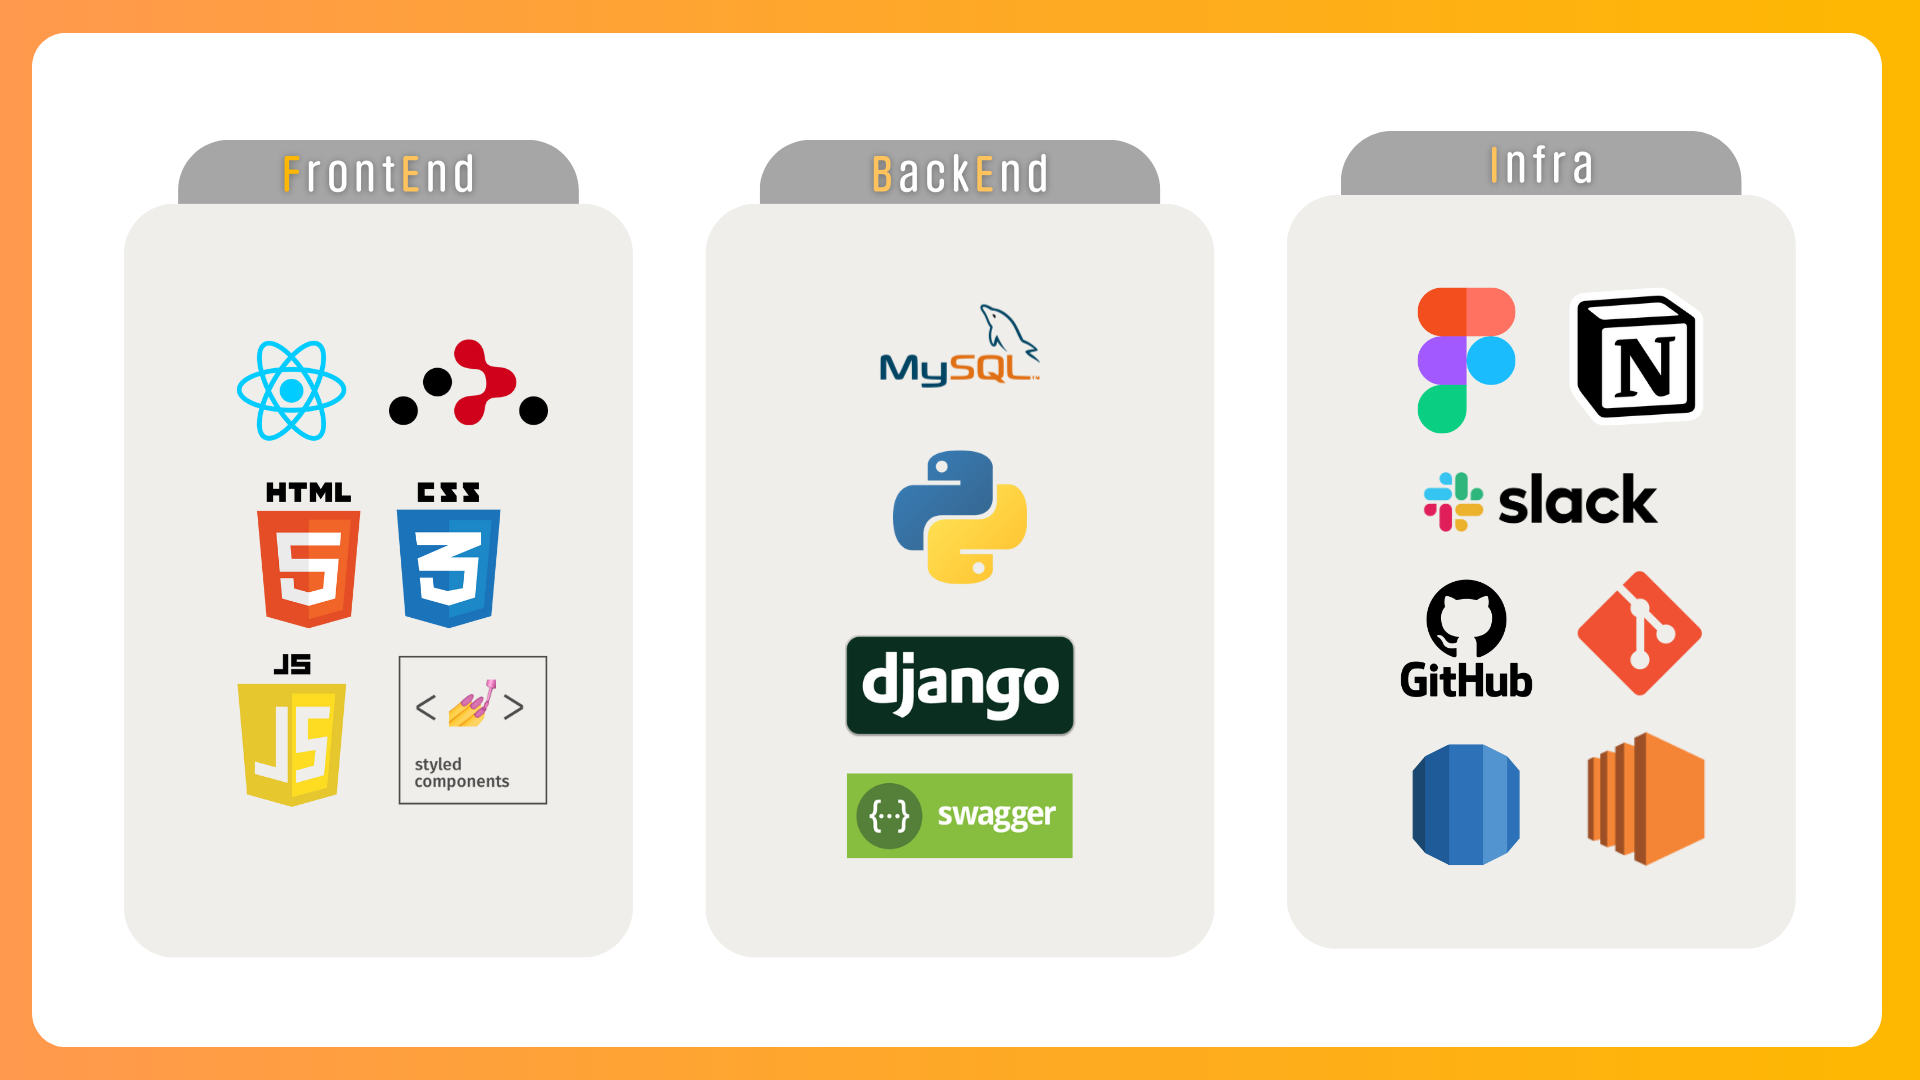
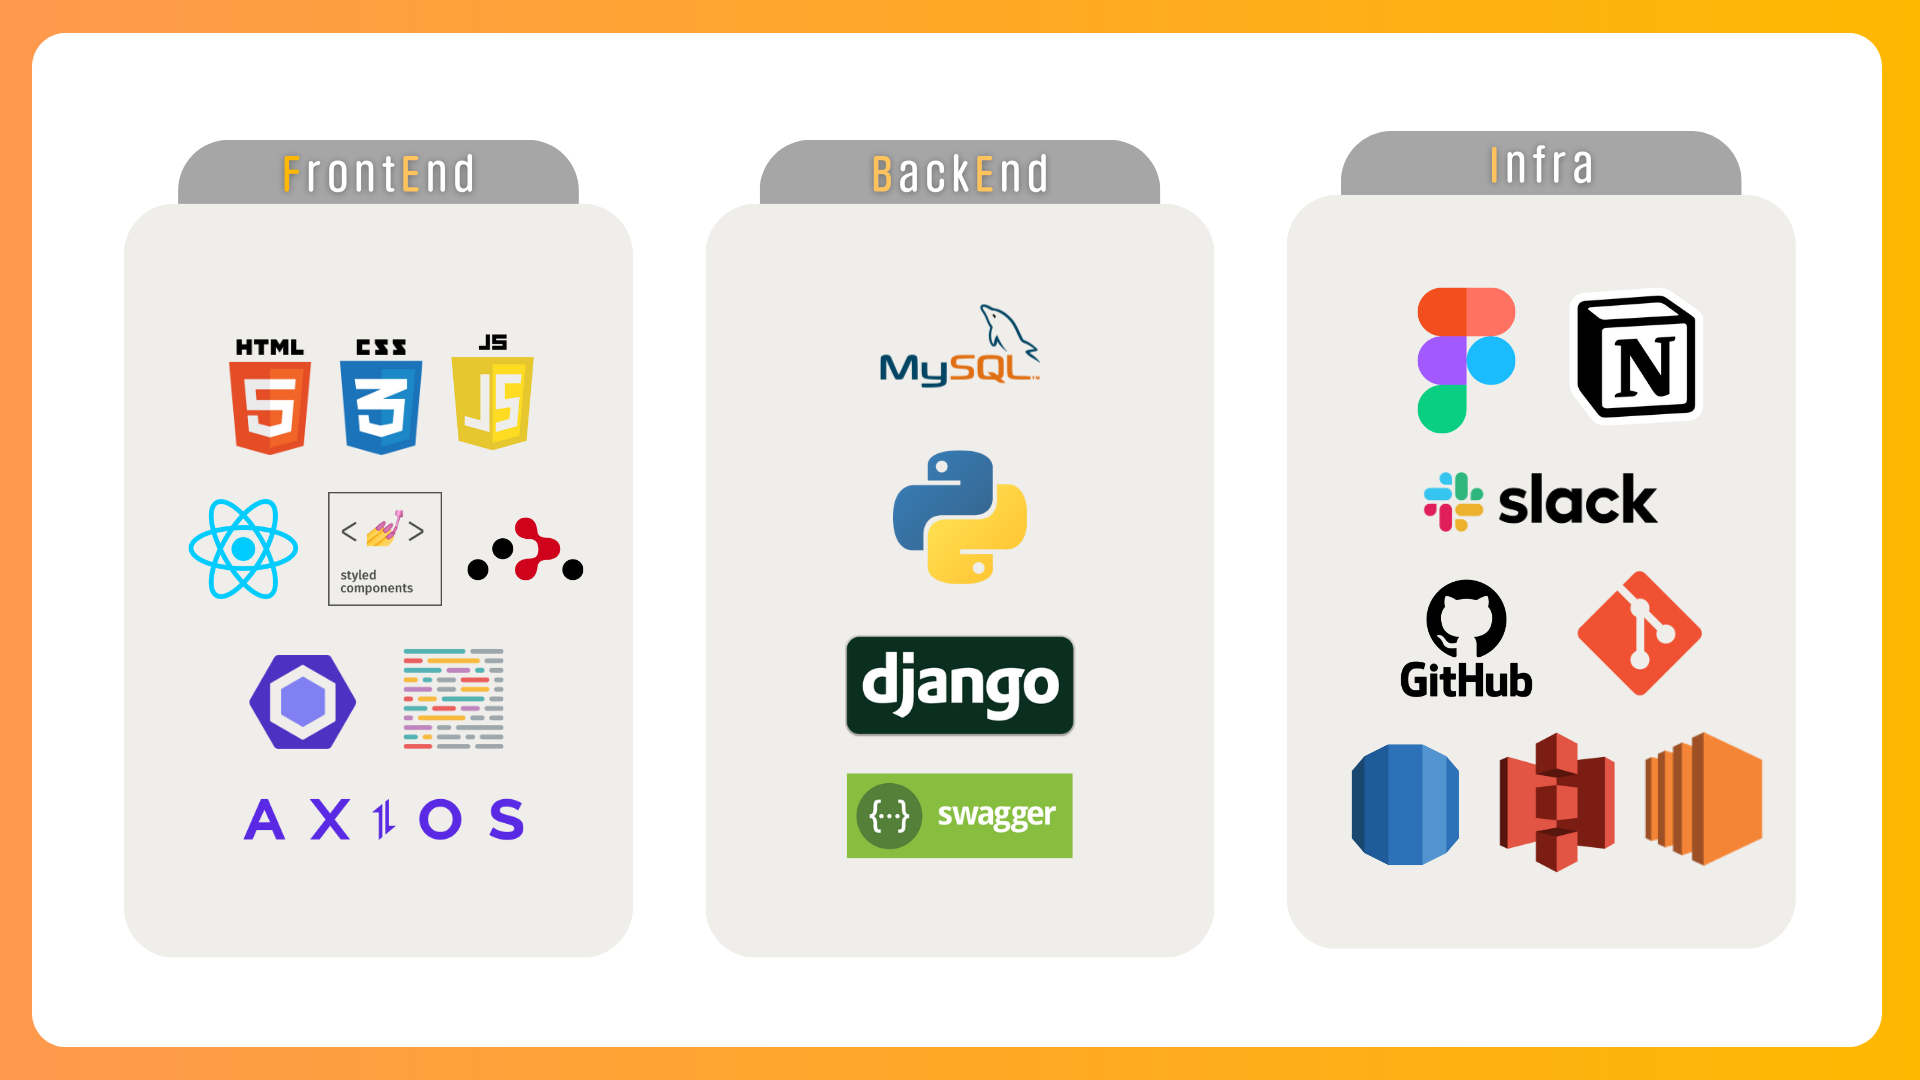
docs: Update readme.md

Changed region(s): [[0.0938, 0.3056, 0.3125, 0.7944], [0.6875, 0.6722, 0.9375, 0.825]]

diff --git a/readme.md b/readme.md
@@ -9,11 +9,13 @@
 더 건강하개, 더 재미있개! 
 
 ### [🛠멍 시그널 배포 링크 바로가기](https://meong-signal.o-r.kr)
+
 ### [🎬멍 시그널 홍보 영상 바로가기](https://youtu.be/4Iq38YWdS-4?si=wcxGkzFkustVEiyr)
 
 <br>
 
 ### 📂 Content
+
 - [🔎 기술 스택](#기술-스택)
 - [🔎 서비스 고안 배경](#서비스-고안-배경)
 - [🔎 서비스 매커니즘](#서비스-매커니즘)
@@ -29,31 +31,54 @@
 <br>
 
 ## 🛠기술 스택
+
 ![기술 스택](meong_signal/static/readme/3.png)
 <br>
-> 백엔드 개발 : django
->
-> 데이터베이스 관리 : AWS RDS(mysql)
-> 
-> 서버 배포 : AWS EC2
-> 
-> 협업 툴 : notion, slack, git, github, Figma
 
-(프론트는 몰라서 아직 못썼어요ㅜ)
+> 프론트엔드 (FrontEnd)
+
+- React
+- HTML5
+- CSS
+- JavaScript
+- 스타일링: Styled-Components
+- 포매터: ESLint + Prettier
+- 라우팅: React Router
+- HTTP 클라이언트: Axios
+
+> 백엔드 (BackEnd)
+
+- Django
+
+> 데이터베이스 관리 (Database Management)
+
+- AWS RDS (MySQL)
+
+> 서버 배포 (Server Deployment)
+
+- AWS EC2
+
+> 협업 툴 (Collaboration Tools)
+
+- Notion
+- Slack
+- Git
+- GitHub
+- Figma
 
 <br>
 
 ## 🌟서비스 고안 배경
 
-대개 견주들은 바쁘거나, 일정이 존재하여 강아지를 산책시킬 시간을 내기 어려울 때가 종종 있습니다. 
-이에 따라 일정의 보수를 받고 강아지를 대신 산책시켜주는 '도그워커'가 등장하기도 하였습니다. 
+대개 견주들은 바쁘거나, 일정이 존재하여 강아지를 산책시킬 시간을 내기 어려울 때가 종종 있습니다.
+이에 따라 일정의 보수를 받고 강아지를 대신 산책시켜주는 '도그워커'가 등장하기도 하였습니다.
 
-그러나 보수가 목적이 아닌 단순 강아지와 함께 산책을 하고자 하는 일반인도 존재하며, 이러한 무보수 도그워커까지 폭넓게 포함하여 
-견주와 도그워커를 매칭해주는 서비스가 있다면 편리할 것입니다. 
+그러나 보수가 목적이 아닌 단순 강아지와 함께 산책을 하고자 하는 일반인도 존재하며, 이러한 무보수 도그워커까지 폭넓게 포함하여
+견주와 도그워커를 매칭해주는 서비스가 있다면 편리할 것입니다.
 
-산책자는 혼자 하는 산책보다 더 즐거운 시간을 보낼 수 있고, 귀여운 강아지와의 교감을 통해 더욱 특별한 추억을 만들 수 있습니다. 견주들은 강아지가 충분히 운동하고 행복하게 산책할 수 있어서 안심할 수 있죠! 
+산책자는 혼자 하는 산책보다 더 즐거운 시간을 보낼 수 있고, 귀여운 강아지와의 교감을 통해 더욱 특별한 추억을 만들 수 있습니다. 견주들은 강아지가 충분히 운동하고 행복하게 산책할 수 있어서 안심할 수 있죠!
 
-또한, 단순 산책 뿐만 아니라 앱 내 다양한 재미요소와 미션을 걸어 산책의 즐거움을 사용자에게 체험하게함으로써, 다각적인 방면에서의 건강을 증진시키는 것을 기대합니다. 
+또한, 단순 산책 뿐만 아니라 앱 내 다양한 재미요소와 미션을 걸어 산책의 즐거움을 사용자에게 체험하게함으로써, 다각적인 방면에서의 건강을 증진시키는 것을 기대합니다.
 <br>
 
 ## 🔗서비스 매커니즘
@@ -62,47 +87,50 @@
 <br>
 
 ## 🔔주요 기능
+
 ![주요기능](meong_signal/static/readme/6.png)
 <br><br>
 **사용자 위치 기반 지도**
+
 - 도그워커의 현재 위치를 기반으로 주변의 강아지 정보를 불러옵니다.
 - 견주의 집 위치를 기반으로 강아지 정보를 생성합니다.
 - 도그워커가 견주의 강아지와 산책 중일 때, 견주는 도그워커의 현재 위치를 원격으로 볼 수 있습니다.
 - 도그워커가 이동한 경로가 지도에 표시되며, 이동 거리와 소모 칼로리가 계산됩니다.
 
 **실시간 채팅**
+
 - 도그워커가 지도에서 강아지의 정보를 확인하고, 견주와 채팅을 시작할 수 있습니다.
 - 채팅방 안에서 날짜와 시간, 약속명을 설정하여 약속을 생성할 수 있습니다.
 - 채팅방 목록에서 곧 다가오는 산책 약속을 확인할 수 있습니다.
 
- **다양한 재미요소**
- - 다양한 업적을 달성하고, 칭호를 획득할 수 있습니다. 칭호는 당신의 이름을 더욱 빛내줄거에요!
- - 강아지와 산책하는 것만으로 챌린지를 달성하고, 재화를 획득할 수 있습니다. 획득한 재화는 물건 구매나 리뷰 작성 시 상대방에게 선물할 수 있습니다.
- - 산책 기록 데이터를 통해 내가 얼마나 산책했는지 확인할 수 있습니다.
-   
+  **다양한 재미요소**
+
+- 다양한 업적을 달성하고, 칭호를 획득할 수 있습니다. 칭호는 당신의 이름을 더욱 빛내줄거에요!
+- 강아지와 산책하는 것만으로 챌린지를 달성하고, 재화를 획득할 수 있습니다. 획득한 재화는 물건 구매나 리뷰 작성 시 상대방에게 선물할 수 있습니다.
+- 산책 기록 데이터를 통해 내가 얼마나 산책했는지 확인할 수 있습니다.
+
 <br>
 
 ## ✨상세 기능
 
 > 소셜로그인 | 일반적인 회원가입 외에 카카오톡, 구글, 네이버로 소셜 로그인을 진행할 수 있습니다.
-> 
+>
 > 리뷰 | 산책이 끝난 후 도그워커와 견주 간 상호 리뷰를 남길 수 있고, 멍 선물도 가능합니다.
-> 
+>
 > 강아지 태그 필터링 | 견주가 강아지 정보를 입력할 때 등록한 강아지 성격 태그로, 특정 성격의 강아지를 지도에서 필터링할 수 있습니다.
-> 
+>
 > 산책 정보 제공 | 지금까지의 산책 내역, 산책 추이 그래프, 산책 별 이동 거리, 소모 칼로리 등 다양한 정보를 확인할 수 있습니다.
-> 
+>
 > 업적 | 거리 이동형, 산책 횟수형과 같은 업적을 달성해 칭호를 획득할 수 있습니다.
-> 
+>
 > 챌린지 | 설정된 주간 챌린지를 달성하여 앱 내에서 사용 가능한 재화, '멍'을 획득할 수 있습니다.
-> 
+>
 > 약속 | 견주 - 도그워커 간에 맺어진 약속은 양측에서 모두 확인 가능하며, 조회, 수정, 취소가 가능합니다.
-> 
+>
 > 추천 경로 | 한국문화정보원에서 제공하는 내 위치 주변의 추천 산책로를 확인 및 저장할 수 있습니다.
 
-
-
 ## 🧱서버 아키텍처
+
 <br>
 
 ## 💎와이어프레임
@@ -111,6 +139,7 @@
 <br>
 
 ## 🗃데이터베이스 구조 | ERD Diagram
+
 <br><br>
 
 ## ⛓api 명세
@@ -118,17 +147,17 @@
 ### [🛠멍 시그널 기능명세 노션 링크](https://abyss-2.notion.site/e607658be211483a9aa4f76c5e8223c2?pvs=4)
 
 ## 💻개발 과정
+
 (슬라이드 제작해서 첨부)
 <br><br>
 
 ## 😎팀 소개
 
-멋쟁이사자처럼 인하대학교 12기 중앙 해커톤 1팀, 감자탕후루 팀입니다. 
+멋쟁이사자처럼 인하대학교 12기 중앙 해커톤 1팀, 감자탕후루 팀입니다.
 
 ![팀 소개 페이지](meong_signal/static/readme/7.png)
 
-
-| 김시원 | 김애리 | 백세희 | 유승인 | 이영주 |
-| ------ | ------ |------| ------ | ------ |
-| BE | FE | BE | FE | FE |
+| 김시원                                   | 김애리                               | 백세희                                 | 유승인                                           | 이영주                                 |
+| ---------------------------------------- | ------------------------------------ | -------------------------------------- | ------------------------------------------------ | -------------------------------------- |
+| BE                                       | FE                                   | BE                                     | FE                                               | FE                                     |
 | [@seaniiio](https://github.com/seaniiio) | [@aeli22](https://github.com/aeli22) | [@sae2say](https://github.com/sae2say) | [@seung-in-Yoo](https://github.com/seung-in-Yoo) | [@abyss-s](https://github.com/abyss-s) |
